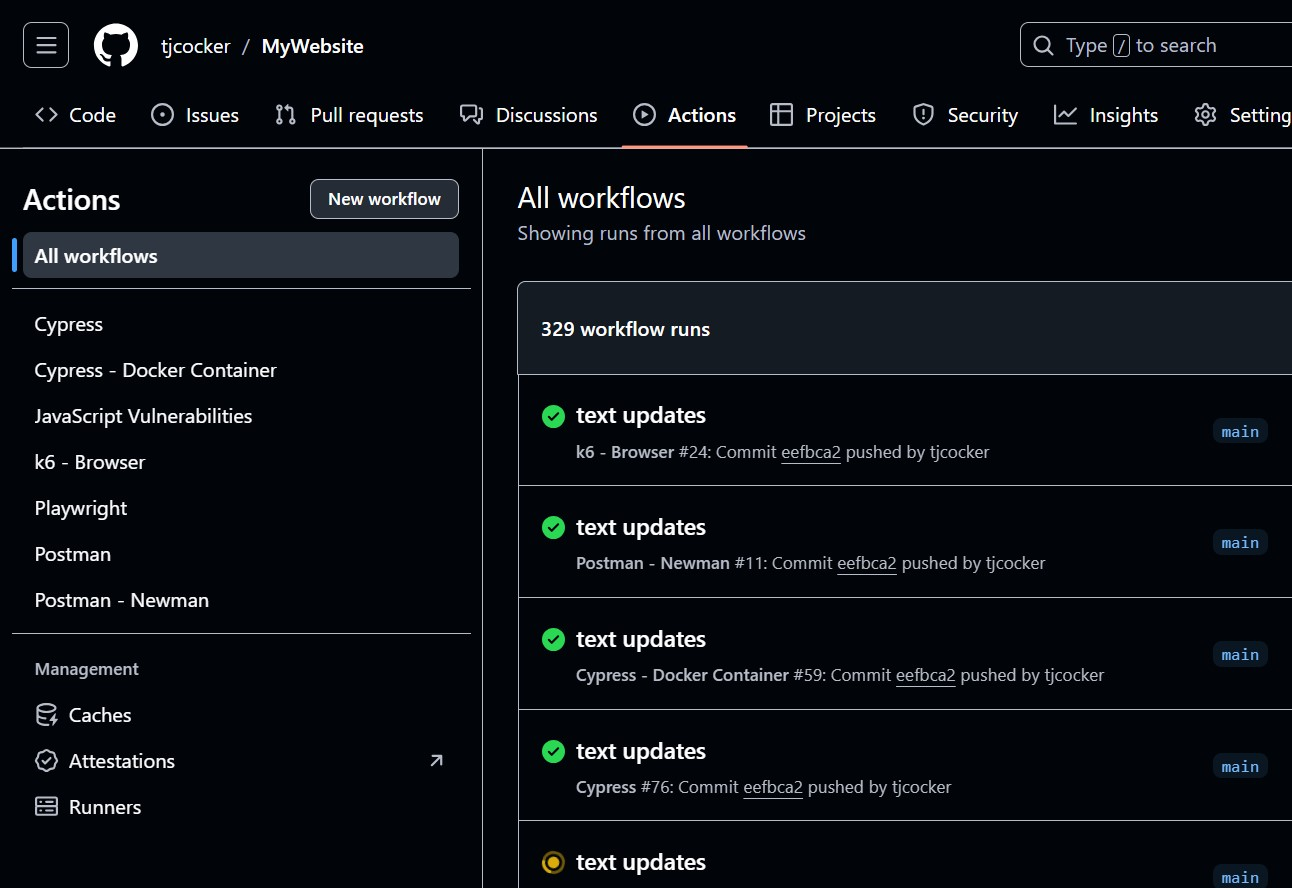
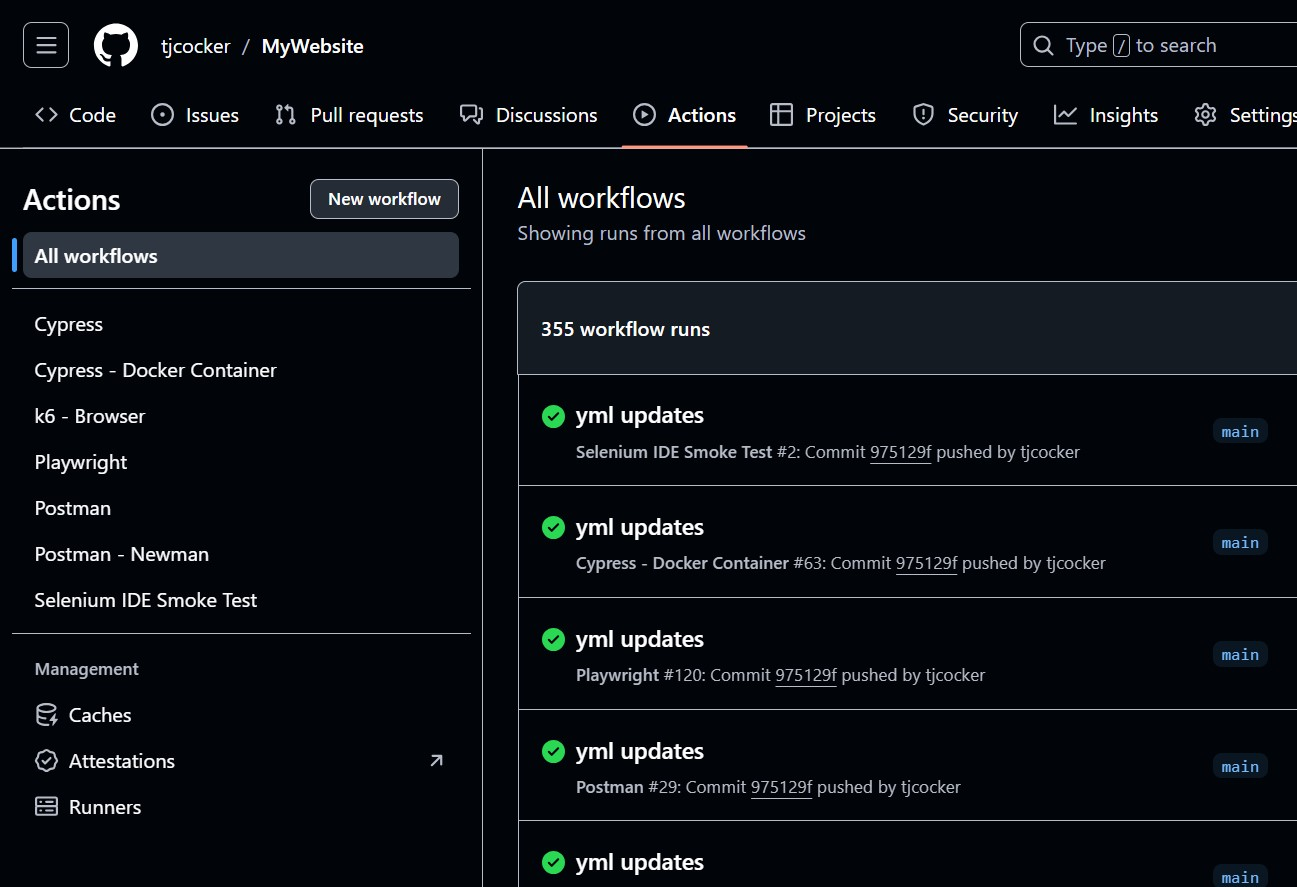
updates to images and index

diff --git a/index.html b/index.html
@@ -58,7 +58,8 @@
 						<a href="images/githubActions.jpg" class="image featured"><img
 								src="images/githubActionsSmall.jpg" alt="github actions image" /></a>
 						<h3><a href="images/githubActions.jpg">GitHub Actions</a></h3>
-						<p><b>Running Cypress, Playwright, Postman and other tests - <a href="https://github.com/tjcocker/MyWebsite">My GitHub</a></b></p>
+						<p><b>Running Cypress, Playwright, Selenium, Postman and other tests - <a
+									href="https://github.com/tjcocker/MyWebsite">My GitHub</a></b></p>
 					</article><br>
 				</div>
 

diff --git a/TestFiles/SeleniumWebDriver/WebsiteTest.py b/TestFiles/SeleniumWebDriver/WebsiteTest.py
@@ -1,24 +1,23 @@
 import unittest
 from selenium import webdriver
 from selenium.webdriver.common.keys import Keys
- 
+
 class WebsiteTest(unittest.TestCase):
- 
+
     def setUp(self):
         self.driver = webdriver.Chrome()
- 
+
     def test_website(self):
-         
+
         driver = self.driver
 
         driver.get("https://tim-cockerham.com")
- 
-        # assertion to confirm if title has name
+
         self.assertIn("Tim Cockerham", driver.title)
         self.assertIn("https://tim-cockerham.com/", driver.current_url)
-  
+
     def tearDown(self):
         self.driver.close()
- 
+
 if __name__ == "__main__":
     unittest.main()
